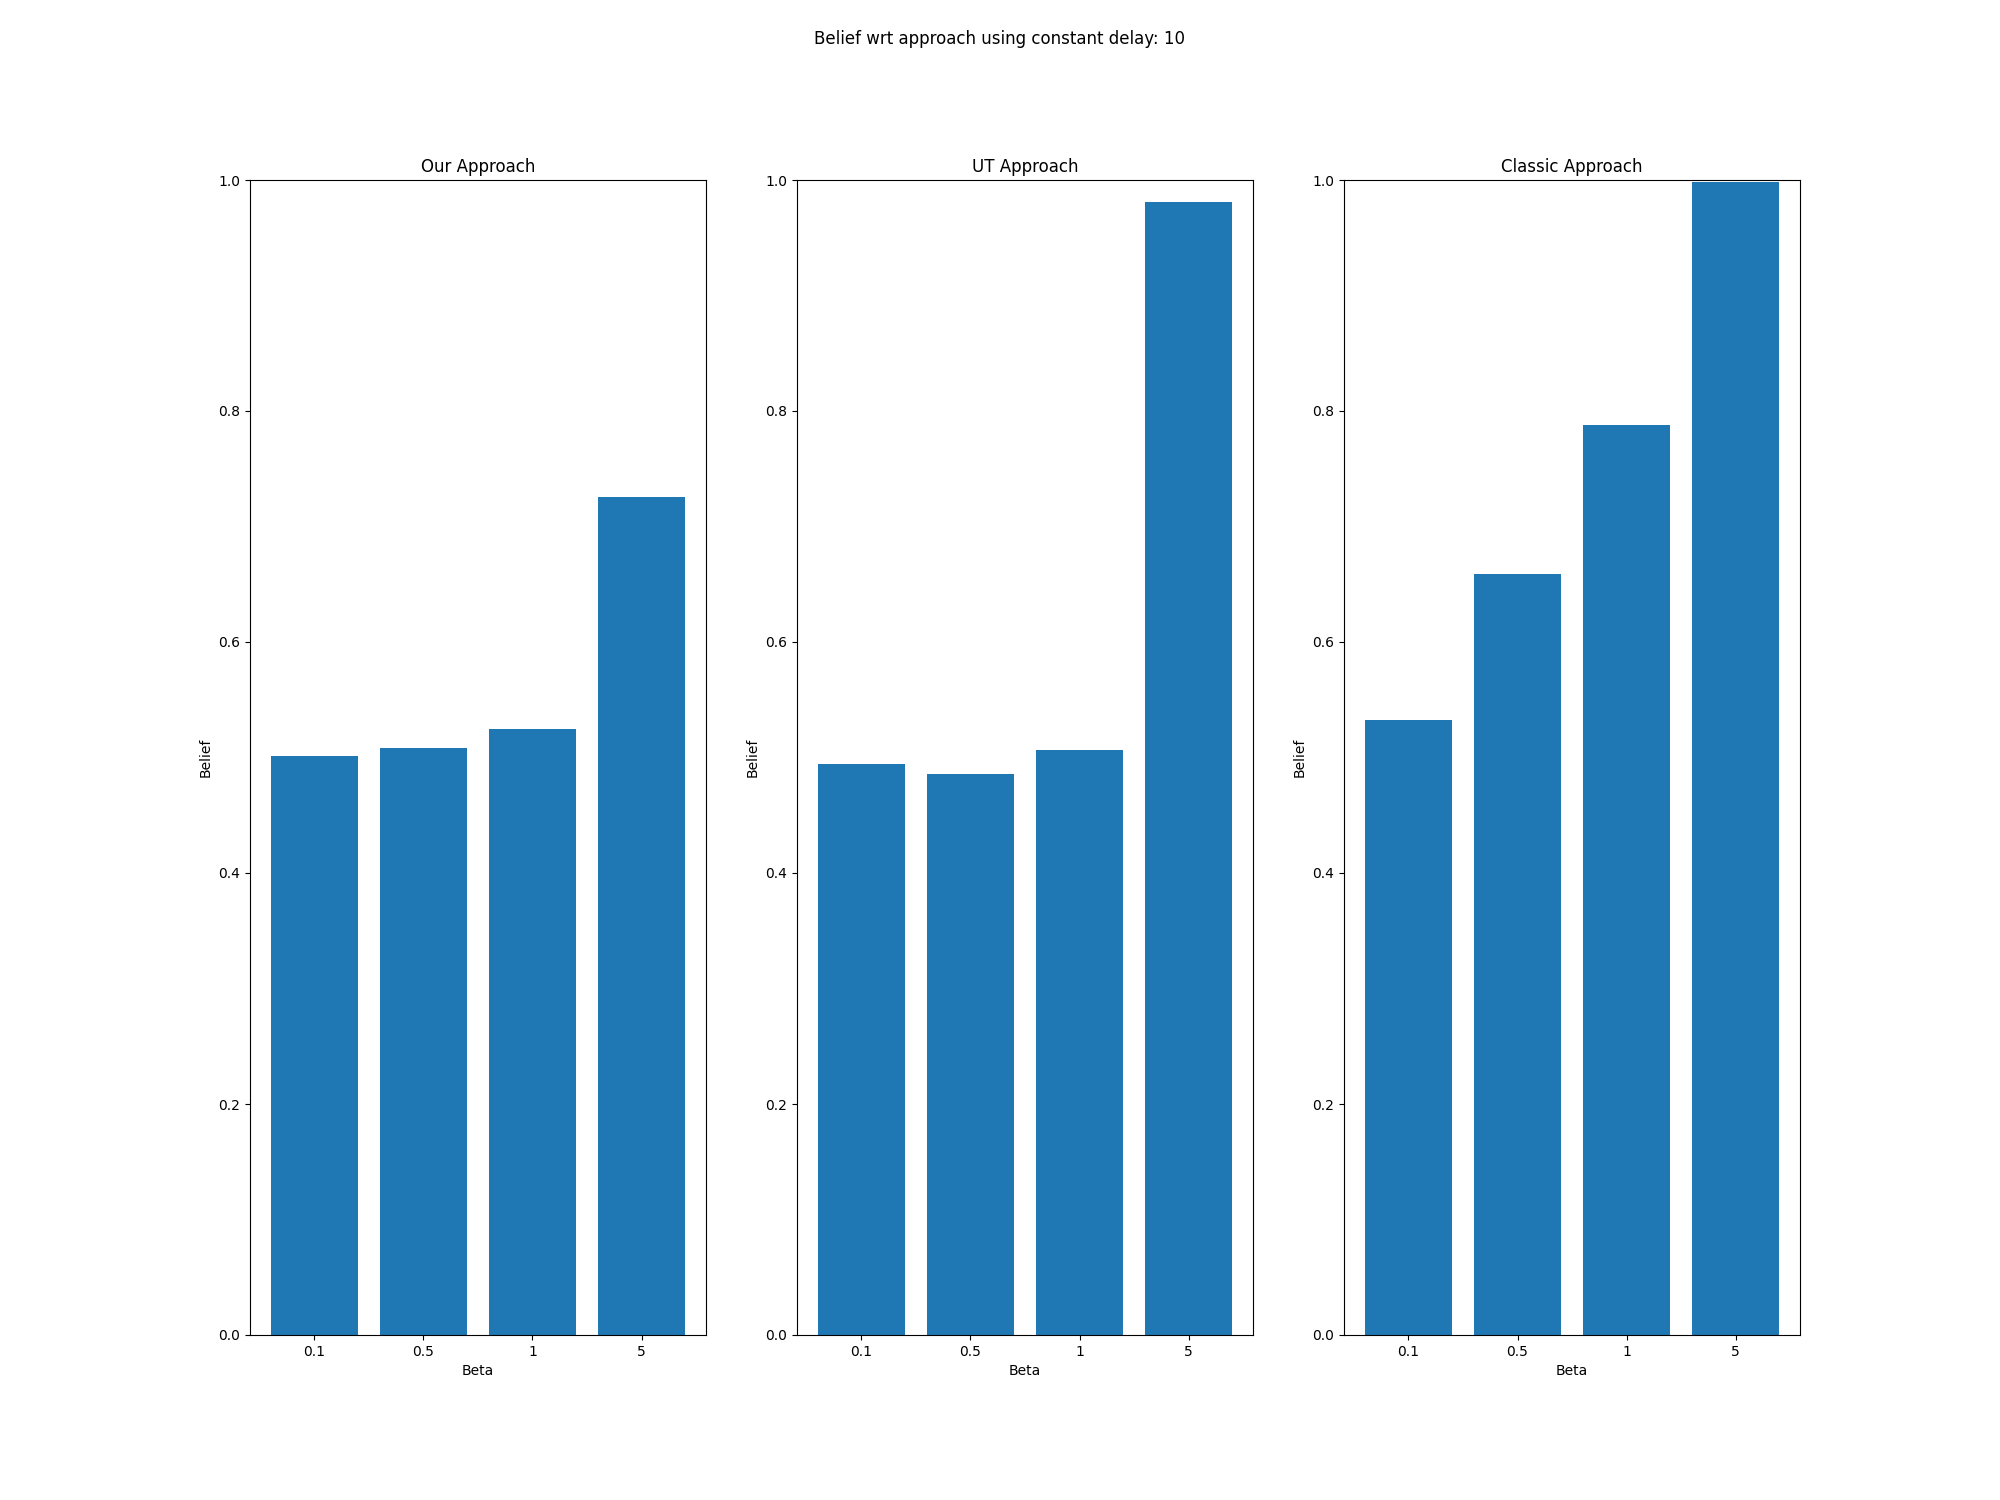
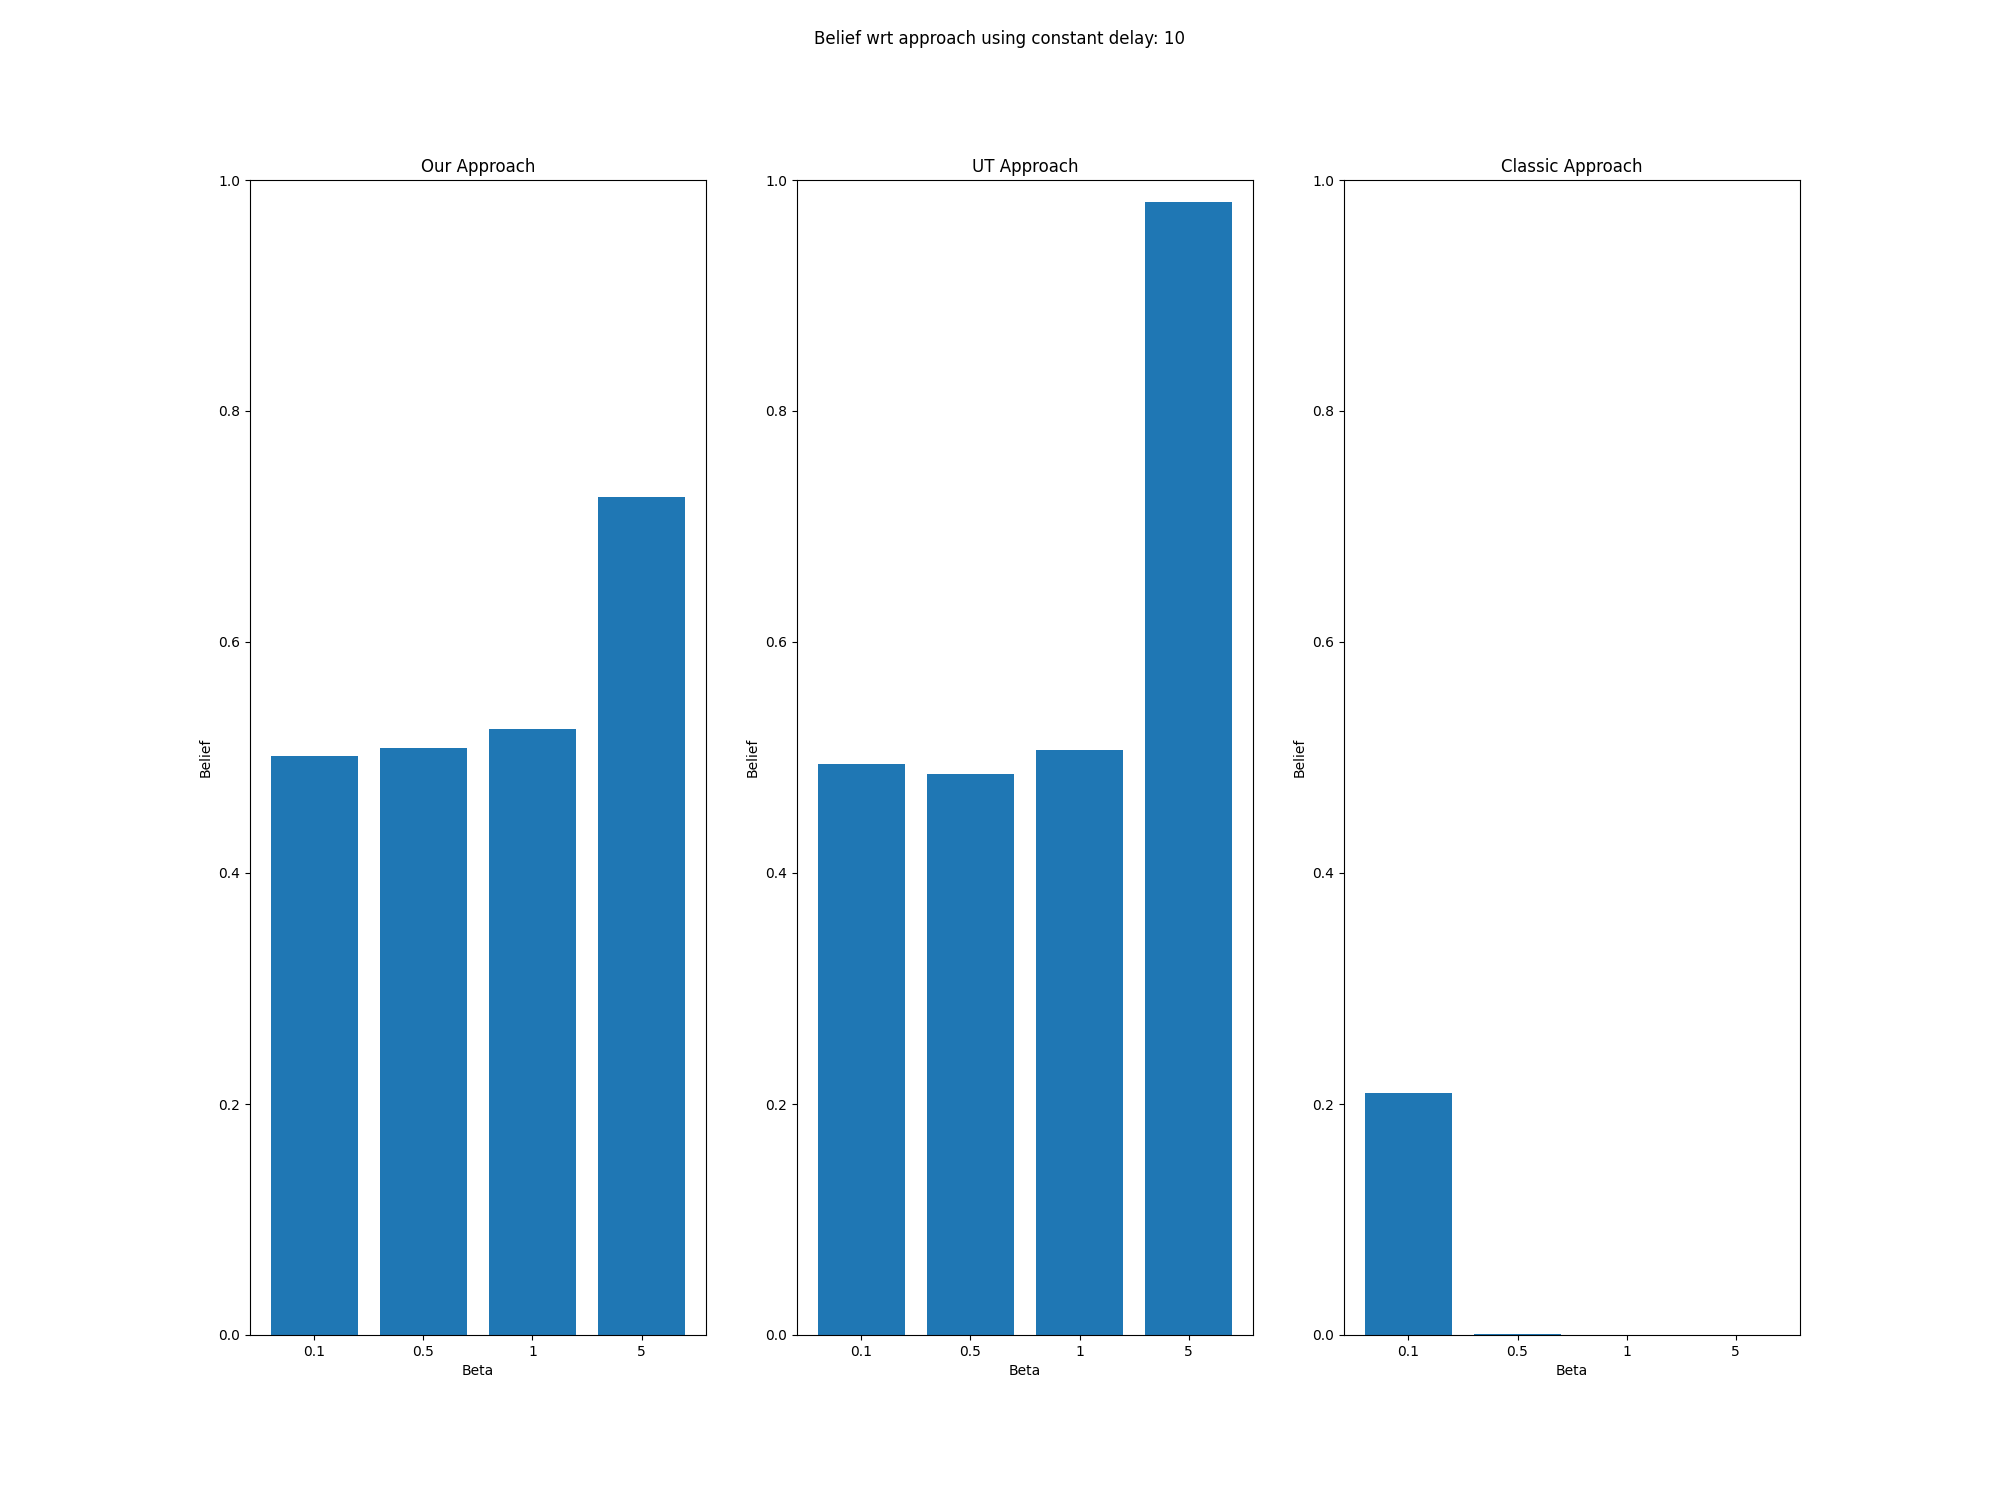
Dev: Fix classic approach and add plots for modified reward

Changed region(s): [[0.682, 0.1227, 0.899, 0.8893]]

diff --git a/scripts/easy_demos.py b/scripts/easy_demos.py
@@ -28,18 +28,26 @@ def get_params(r_type):
         model_name = "dqn_R2.pth"
     return action_stop, doc_name, model_name
 
-def generate_data(r_type, ep):
+def generate_data(r_type, ep, delay, max_action_stops):
 
     action_stop, doc_name, model_name = get_params(r_type)
+    
 
-    # Action delays. Decide how many frames between actions
     t_delay = range(1,11)
     scores = [None] * len(t_delay)
     modified_scores = [None] * len(t_delay)
     landings = [None] * len(t_delay)
-    
 
-    for delay in t_delay:
+    f1, axs = plt.subplots(nrows=2, ncols=3, figsize=(20, 15))
+    f1.suptitle('Sample easy trajectories w.r.t Max Action Stop')
+    p_row = 0
+    p_col = 0
+
+    avg_dist = []
+    sigma = []
+    # Action delays. Decide how many frames between actions        
+
+    for max_action_stop in max_action_stops:
         # load environment
         dataset = []
         env = gym.make('LunarLanderC1-v0')
@@ -57,16 +65,27 @@ def generate_data(r_type, ep):
         modified_score = 0
         print("Starting lunar lander with action delay: ", delay)
 
+        dist_episode = []
+
         for episode in range(episodes):   
-            landing = 0
             
-            # reset to start
-            xi = []
             state = env.reset()
+
+            # Some useful variables
+            landing = 0
+            xi = []
             episode_reward = 0
             modified_episode_reward = 0
-            stop_time = random.randint(action_stop, 500)
+            
+            # Save x,y for plotting
+            state_x = []
+            state_y = []
+
+            # Stop time for easy demonstrations
+            stop_time = random.randint(action_stop, max_action_stop)
             #print(stop_time)
+
+            # Run demonstrations for all t
             for t in range(1000):
 
                 if t < stop_time and t % delay == 0 :
@@ -80,7 +99,7 @@ def generate_data(r_type, ep):
                     action = 0
 
                 # apply that action and take a step
-                env.render()              # can always toggle visualization
+                # env.render()              # can always toggle visualization
                 next_state, _, done, info = env.step(action)
                 reward = info['reward']
                 modified_reward = info['mod_reward']
@@ -96,21 +115,24 @@ def generate_data(r_type, ep):
                 modified_score += modified_reward
                 episode_reward += reward
                 modified_episode_reward += modified_reward
+                state_x.append(state[0])
+                state_y.append(state[1])
 
-                if done and t < 1000:
+                if done:
                     # print("Length of trajectory: ",len(xi))
                     # print("Reward: ", episode_reward)
                     # print("Lander Status: ",awake)
-                    # for t_left in range(t,1000):
-                    #     xi.append([t_left] + [0] + [awake] + [state])
+                    if episode < 15:
+                        axs[p_row,p_col].plot(state_x, state_y)
+                        axs[p_row,p_col].axis([-0.75, 0.75, 0, 1.6])
+                        axs[p_row,p_col].text(0,1.55,'Max Stop Time: ' + str(max_action_stop),
+                                                 horizontalalignment='center')
+
                     dataset.append(xi)
+                    dist_episode.append(state[0])
                     if awake:
                         landing += 1
                     break
-                elif done:
-                    print('T = ' + str(t))
-                    break
-
 
         # scores[i] = score/episodes
         # modified_scores[i] = modified_score/episodes
@@ -118,11 +140,22 @@ def generate_data(r_type, ep):
         # print("Mean reward for completed iteration: ", scores[i])
 
         env.close()
-        dataname = '../data/lander_' + doc_name + '_t_' + str(delay) + '.pkl'
+        if p_col < 2:
+            p_col += 1
+        else:
+            p_col = 0
+            p_row += 1
+        avg_dist.append(sum(dist_episode)/len(dist_episode))
+        sigma.append(np.var(dist_episode))
+        # dataname = '../data/lander_' + doc_name + '_t_' + str(delay) + '.pkl'
         # pickle.dump( dataset, open( dataname, "wb" ) )
         #print(dataset)
         #print(dataset[0])
         #print(len(dataset))
+    f1.tight_layout()
+    f1.savefig('../plots/easy_traj/trajectories_t_' + str(delay) + '.png')
+    return avg_dist, sigma
+    # plt.show()
 
 def main():
     '''
@@ -132,15 +165,41 @@ def main():
       = 3 -> R1 data with noise
       = 4 -> R2 data with no time stop 
     '''
-    # for i in range(1,5):
-    #     if i == 2 or i == 3:
-    #         eps = 100
-    #     else:
-    #         eps = 25
-    eps = 5
-    i = 2
-    generate_data(i, eps)    
+    avg_dist = []
+    t_delay = range(1,11)
+    max_action_stops = [100, 200, 300, 400, 500, 600]
+    eps = 25
+    r_type = 2
+    x = np.arange(len(max_action_stops))
 
+    f2, axs = plt.subplots(nrows=2, ncols=5, figsize=(20, 15))
+    f2.suptitle('Avg landing distance w.r.t Max action stop')
+    p_row = 0
+    p_col = 0
+    width = 0.35
+
+    for delay in t_delay:
+        # i = 1
+        dist, sigma = generate_data(r_type, eps, delay, max_action_stops)   
+        rects1 = axs[p_row,p_col].bar(x - width/2, dist, 0.35, label = 'Mean')
+        rects2 = axs[p_row,p_col].bar(x + width/2, sigma, 0.35, label = 'Variance')
+        # print(dist)
+        axs[p_row,p_col].title.set_text('Action Delay: ' + str(delay))
+        axs[p_row,p_col].set_xticks(x)
+        axs[p_row,p_col].set_xticklabels(max_action_stops)
+        axs[p_row,p_col].set(xlabel='Max Action Stop', ylabel='Avg Distance')
+        axs[p_row,p_col].axhline(lw=1, color='black')
+        axs[p_row,p_col].legend()
+        axs[p_row,p_col].set_ylim([-0.2, 0.2])
+
+        if p_col < 4:
+            p_col += 1
+        else:
+            p_col = 0
+            p_row += 1        
+
+    f2.tight_layout()
+    f2.savefig('../plots/avg_dist.png')
 if __name__ == "__main__":
     main()
 

diff --git a/scripts/learn.py b/scripts/learn.py
@@ -22,12 +22,12 @@ def Reward(xi, R_type):
         action = waypoint[1]
         if R_type == 1:
             shaping = \
-                - 100*np.sqrt(state[0]*state[0] + state[1]*state[1]) \
+                - 1000*np.sqrt(state[0]*state[0] + state[1]*state[1]) \
                 - 100*np.sqrt(state[2]*state[2] + state[3]*state[3]) \
                 - 100*abs(state[4]) + 10*state[6] + 10*state[7]
         else:
             shaping = \
-                - 100*np.sqrt(state[1]*state[1]) \
+                - 1000*np.sqrt(state[1]*state[1]) \
                 - 100*np.sqrt(state[2]*state[2] + state[3]*state[3]) \
                 - 100*abs(state[4]) + 10*state[6] + 10*state[7]
 
@@ -86,11 +86,11 @@ def get_belief(beta, D, Xi_R):
     b = [p1/Z, p2/Z]
     return b
 
-def birl_belief(beta, D, Xi_R):
+def birl_belief(beta, D, Xi_R1, Xi_R2):
     rewards_D = np.asarray([Reward(xi,1) for xi in D], dtype = np.float32)    
-    rewards_XiR = np.asarray([Reward(xi,1) for xi in Xi_R], dtype = np.float32)    
+    rewards_XiR = np.asarray([Reward(xi,1) for xi in Xi_R1], dtype = np.float32)    
     rewards_D_2 = np.asarray([Reward(xi,2) for xi in D], dtype = np.float32)    
-    rewards_XiR_2 = np.asarray([Reward(xi,2) for xi in Xi_R], dtype = np.float32)
+    rewards_XiR_2 = np.asarray([Reward(xi,2) for xi in Xi_R2], dtype = np.float32)
 
     norm = np.max(np.asarray([np.max(np.abs(rewards_D)),np.max(np.abs(rewards_XiR)),\
          np.max(np.abs(rewards_D_2)), np.max(np.abs(rewards_XiR_2))]))
@@ -130,10 +130,11 @@ def main():
 
 
         #import trajectories (that could be choices)
-        D = pickle.load( open( "../data/75/lander_R1_t_"+ str(t) +".pkl", "rb" ) )
-        E = pickle.load( open( "../data/75/lander_R1_easy_t_"+ str(t) +".pkl", "rb" ) )
-        O = pickle.load( open( "../data/75/lander_R2_t_1.pkl", "rb" ) )
-        N = pickle.load( open( "../data/75/lander_R1_noisy_t_"+ str(t) +".pkl", "rb" ) )
+        D = pickle.load( open( "../data/lander_R1_t_"+ str(t) +".pkl", "rb" ) )
+        E = pickle.load( open( "../data/lander_R1_easy_t_"+ str(t) +".pkl", "rb" ) )
+        O_R2 = pickle.load( open( "../data/lander_R2_t_1.pkl", "rb" ) )
+        O_R1 = pickle.load( open("../data/lander_R1_t_1.pkl", "rb") )
+        N = pickle.load( open( "../data/lander_R1_noisy_t_"+ str(t) +".pkl", "rb" ) )
 
         print("Action Delay: ", t)
         #rationality constant. Increasing makes different terms dominate
@@ -158,8 +159,7 @@ def main():
             # col += 1
 
             # Classic appraoch
-            Xi_R = O
-            b = birl_belief(beta, D, Xi_R)
+            b = birl_belief(beta, D, O_R1, O_R2)
             b_o.append(b[0])
             # axs[col].bar(Rewards, b)
         titles = ['Our Approach', 'UT Approach', 'Classic Approach']
@@ -173,7 +173,7 @@ def main():
             axs[col].set_xlabel('Beta')
             axs[col].set_ylabel('Belief')
             col += 1   
-        plt.savefig('../plots/plots_75/beliefs_t_' + str(t) + '.png')
+        plt.savefig('../plots/modified_reward/beliefs_t_' + str(t) + '.png')
         # plt.show()
 
         b_e_t.append(b_e)

diff --git a/scripts/gen_trajectories.py b/scripts/gen_trajectories.py
@@ -28,12 +28,12 @@ def main():
 
         # load our trained q-network
         qnetwork = QNetwork(state_size=8, action_size=4, seed=1)
-        qnetwork.load_state_dict(torch.load("../models/dqn.pth"))
+        qnetwork.load_state_dict(torch.load("../models/dqn_R3.pth"))
         qnetwork.eval()
         softmax = torch.nn.Softmax(dim=1)
 
         # we'll rollout over N episodes
-        episodes = 1
+        episodes = 100
 
         ''' Calculate Rewards over multiple delays
             The action delay is calculated as timestep % delay_factor
@@ -76,7 +76,7 @@ def main():
                         #print(action)
 
                     # apply that action and take a step
-                    #env.render()              # can always toggle visualization
+                    env.render()              # can always toggle visualization
                     xi.append([t] + [action] + list(state))
                     next_state, _, done, info = env.step(action)
                     reward = info['reward']
@@ -161,7 +161,7 @@ def main():
     # f1.savefig('../plots/trajectories.png')
     # f2.savefig('../plots/mean_reward.png')
     # #plt.show()
-    pickle.dump( dataset, open( dataname, "wb" ) )
+    # pickle.dump( dataset, open( dataname, "wb" ) )
     print(dataset)
     print(len(dataset))
 

diff --git a/envs/LunarLander_c1/envs/lunar_lander_c1.py b/envs/LunarLander_c1/envs/lunar_lander_c1.py
@@ -141,7 +141,7 @@ class LunarLanderC1(gym.Env, EzPickle):
         H = VIEWPORT_H/SCALE
 
         # terrain
-        CHUNKS = 11
+        CHUNKS = 5
         height = self.np_random.uniform(0, H/2, size=(CHUNKS+1,))
         chunk_x = [W/(CHUNKS-1)*i for i in range(CHUNKS)]
         self.helipad_x1 = chunk_x[CHUNKS//2-1]
@@ -351,13 +351,13 @@ class LunarLanderC1(gym.Env, EzPickle):
         lander_state = True
         if self.game_over or abs(state[0]) >= 1.0:
             done = True
-            reward = -100
+            reward = -1
             mod_reward = -100
             lander_state = False
 
         if not self.lander.awake:
             done = True
-            reward = +100
+            reward = +1
             mod_reward = +100
             lander_state = True
 

diff --git a/scripts/train.py b/scripts/train.py
@@ -6,6 +6,7 @@ import pickle
 import sys
 
 import gym
+import LunarLander_c1
 import torch
 import torch.nn as nn
 import torch.nn.functional as F
@@ -227,13 +228,13 @@ def train(agent,
     return scores
 
 if __name__ == "__main__":
-    env = gym.make("LunarLander-v2")
+    env = gym.make('LunarLanderC1-v0')
     env.seed(0)
     agent = Agent(state_size=8, action_size=4, seed=0)
-    scores = train(agent, savename="../models/dqn_land_anywhere.pth")
+    scores = train(agent, savename="../models/dqn_R3.pth")
 
     # load the weights from file
-    agent.qnetwork_local.load_state_dict(torch.load('../models/dqn_land_anywhere.pth'))
+    agent.qnetwork_local.load_state_dict(torch.load('../models/dqn_R3.pth'))
 
     for i in range(3):
         state = env.reset()
